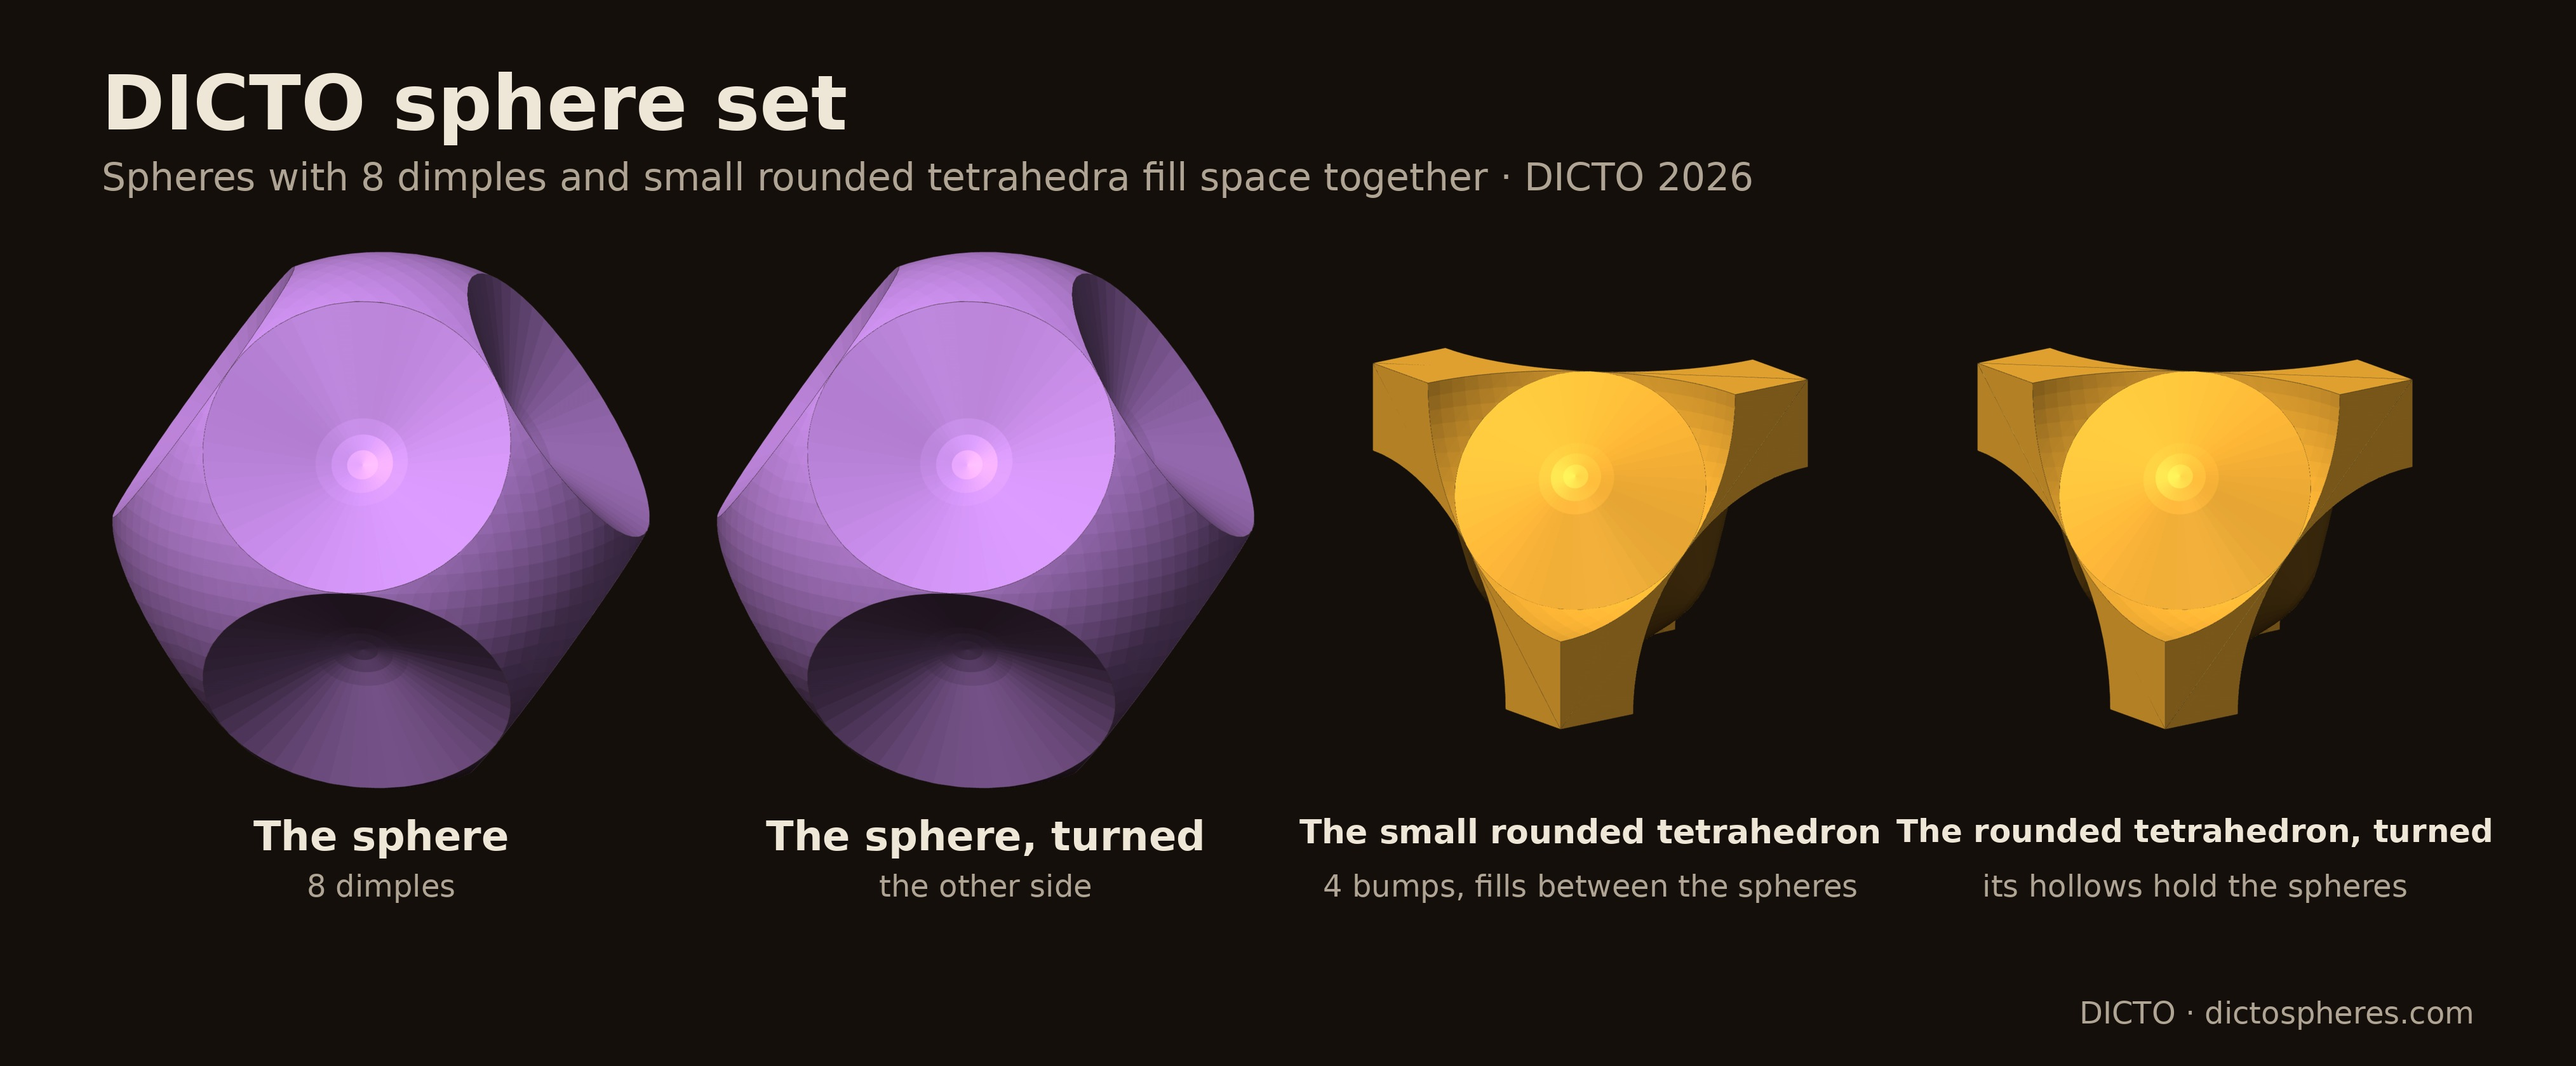
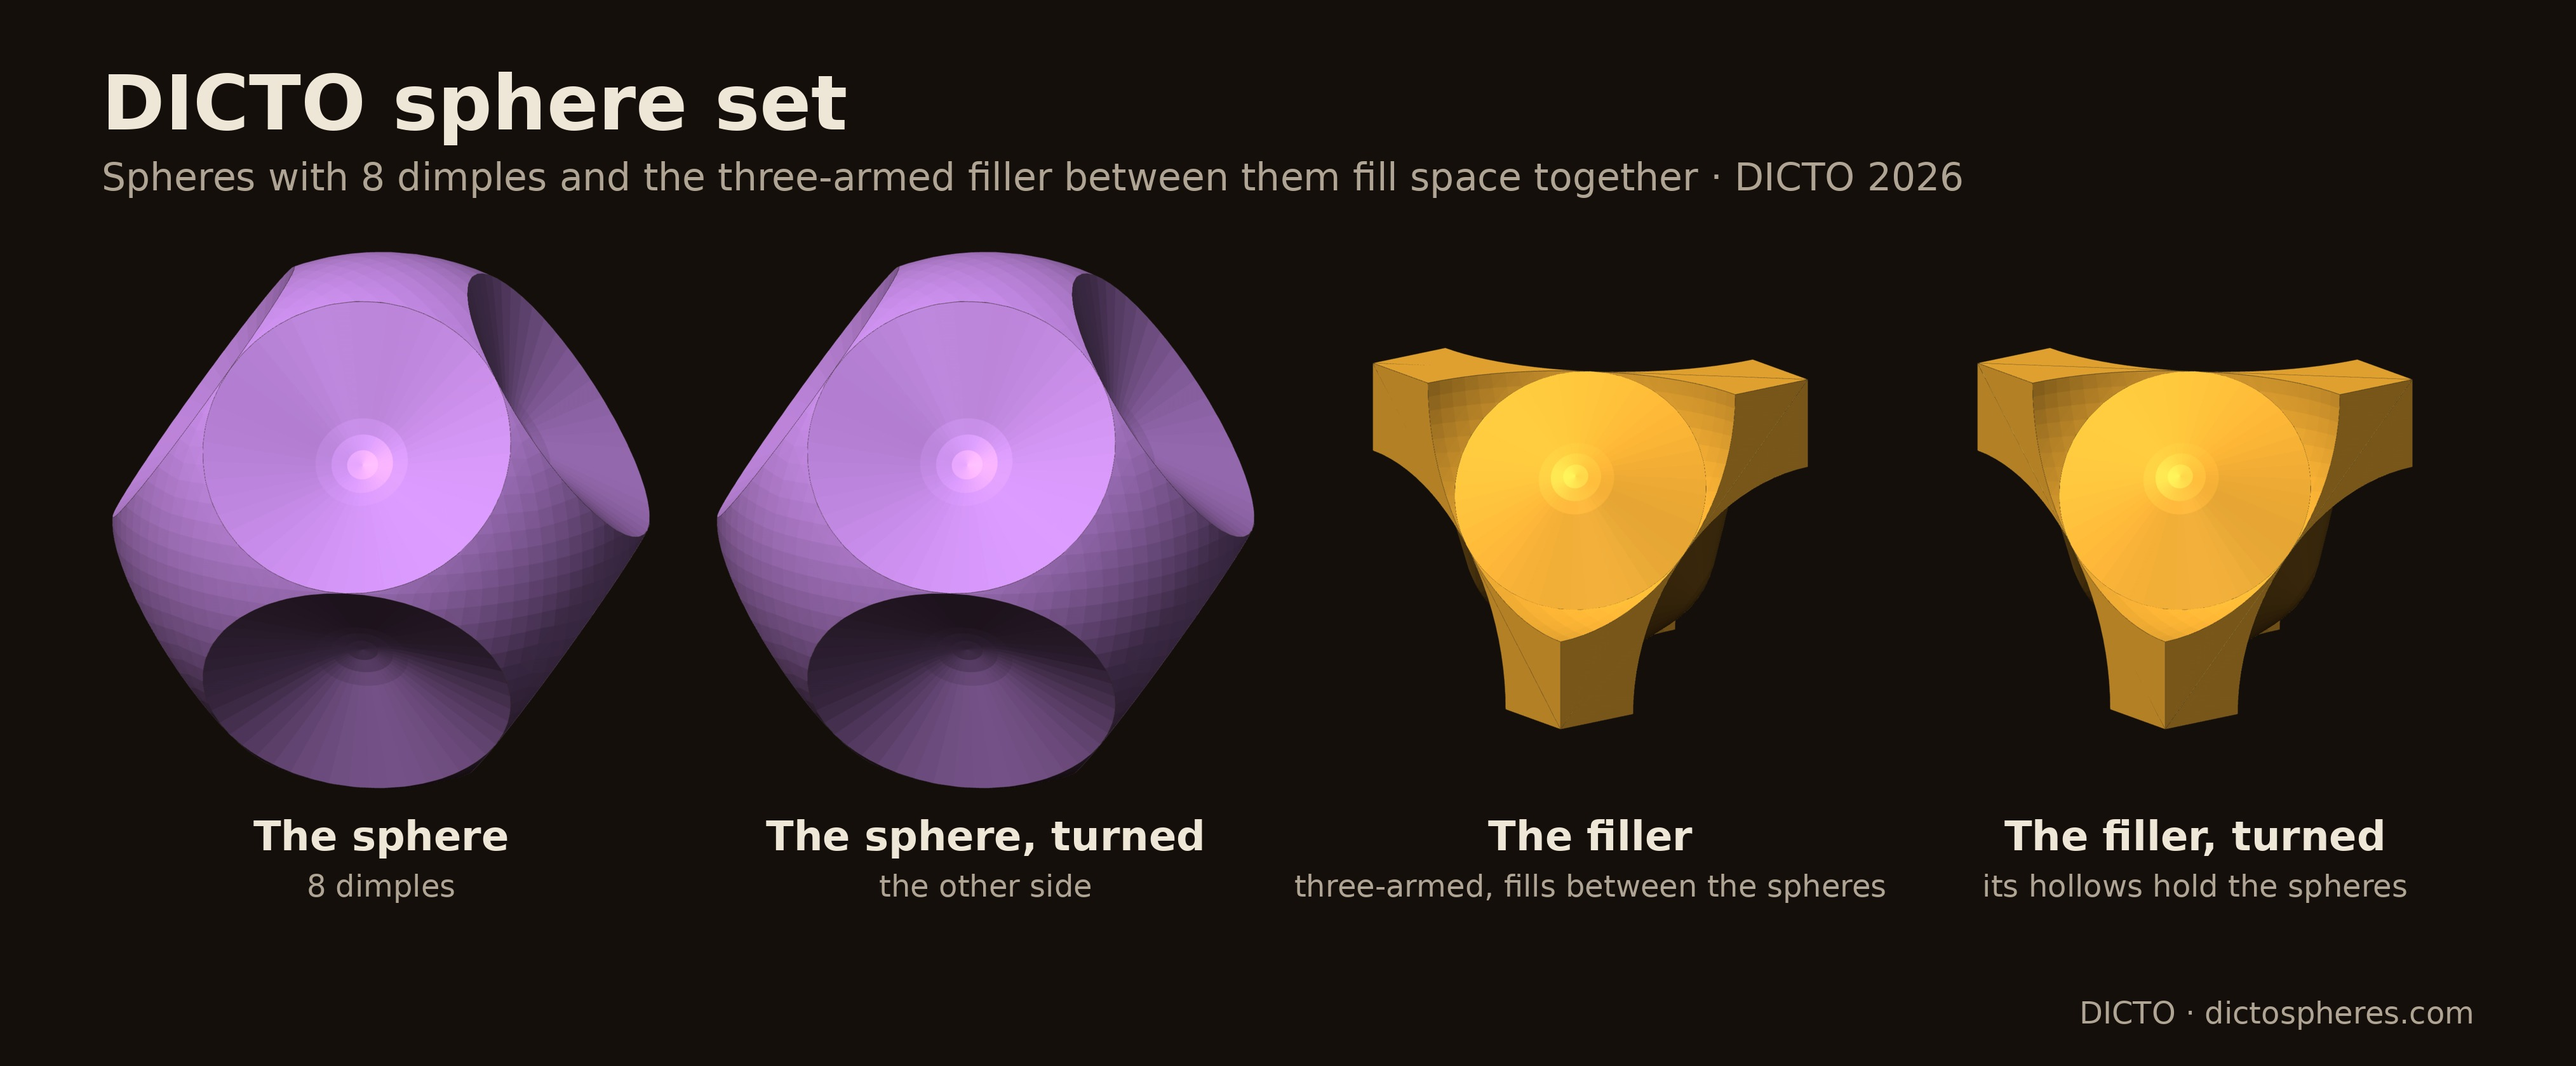
Sphere set figure: the filler is three-armed, not a rounded tetrahedron (labels and subtitle)

Changed region(s): [[0.497, 0.7738, 0.963, 0.8667], [0.2485, 0.1548, 0.7766, 0.1857]]

diff --git a/studies/2026-10-20-double-octet/sphere8_octet_figs.py b/studies/2026-10-20-double-octet/sphere8_octet_figs.py
@@ -11,13 +11,13 @@ scenes = []; add = lambda t_, s_, parts: scenes.append({'title': t_, 'sub': s_, 
 S0 = sphere_piece((1, 0, 0)); F0 = filler(np.array([(0, 0, 0), (1, 1, 0), (1, 0, 1), (0, 1, 1)], float))
 add('The sphere', '8 dimples', [part(S0, PURPLE)])
 add('The sphere, turned', 'the other side', [part(S0.rotate([0, 0, 90]), PURPLE)])
-add('The small rounded tetrahedron', '4 bumps, fills between the spheres', [part(F0, GOLD)])
-add('The rounded tetrahedron, turned', 'its hollows hold the spheres', [part(F0.rotate([0, 0, 180]), GOLD)])
+add('The filler', 'three-armed, fills between the spheres', [part(F0, GOLD)])
+add('The filler, turned', 'its hollows hold the spheres', [part(F0.rotate([0, 0, 180]), GOLD)])
 cen = np.array([1.0, 0, 0]); ps = [part(S0, PURPLE)]
 for sg in itertools.product((1, -1), repeat=3):
     sgv = np.array(sg, float); V = [cen + sgv[j] * np.eye(3)[j] for j in range(3)] + [cen + sgv]
     ps.append(part(filler(np.array(V)).translate(list(sgv * 0.5)), GOLD))
-add('One sphere, eight rounded tetrahedra', 'drawn apart', ps)
+add('One sphere, eight fillers', 'drawn apart', ps)
 blk = [part(filler(V).translate(list((b_ - 0.5) * 0.3)), GOLD) for b_, V in tets_in(range(0, 2))]
 for p_ in [(1, 0, 0), (0, 1, 0), (0, 0, 1), (1, 1, 1), (2, 1, 0), (2, 0, 1), (1, 2, 0), (0, 2, 1), (1, 0, 2), (0, 1, 2), (2, 1, 2), (1, 2, 2), (2, 2, 1)]:
     blk.append(part(sphere_piece(p_).translate(list((np.array(p_, float) - 1) * 0.3)), PURPLE))

diff --git a/studies/2026-10-20-double-octet/sphere8_octet_compose.py b/studies/2026-10-20-double-octet/sphere8_octet_compose.py
@@ -20,5 +20,5 @@ def sheet(idx, cols, path, title=None, sub=None, cell=520, gap=36, names=None, s
             d.text((x + cell / 2 - d.textlength(txt, font=fo) / 2, yy), txt, font=fo, fill=col)
     m = 'DICTO · dictospheres.com'; d.text((W - 80 * K - d.textlength(m, font=f(24 * K)), Hh - 56 * K), m, font=f(24 * K), fill=MUTE)
     im.save(os.path.join(OUT, path), quality=92); print(path, im.size)
-sheet([0, 1, 2, 3], 4, 'sphere8-octet-a.jpg', 'DICTO sphere set', 'Spheres with 8 dimples and small rounded tetrahedra fill space together · DICTO 2026', cell=440)
+sheet([0, 1, 2, 3], 4, 'sphere8-octet-a.jpg', 'DICTO sphere set', 'Spheres with 8 dimples and the three-armed filler between them fill space together · DICTO 2026', cell=440)
 sheet([4, 5], 2, 'sphere8-octet-b.jpg', cell=600)
